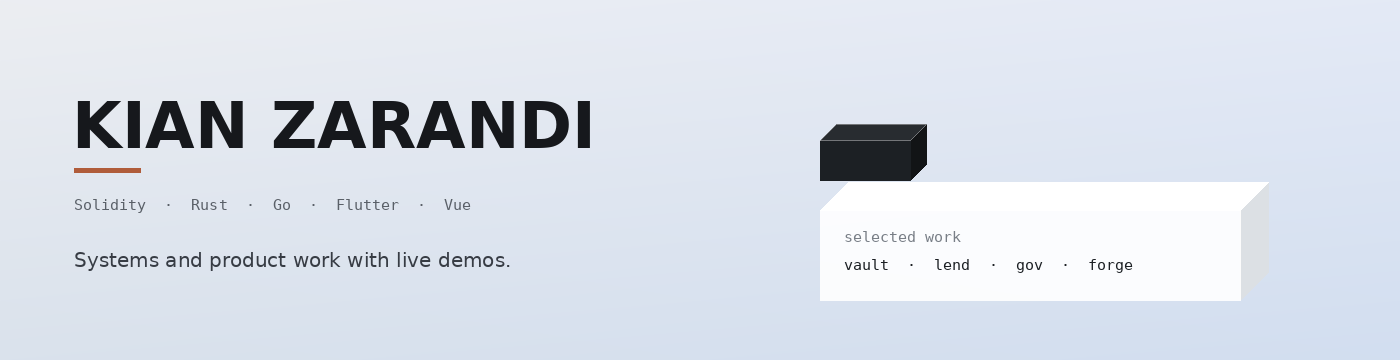
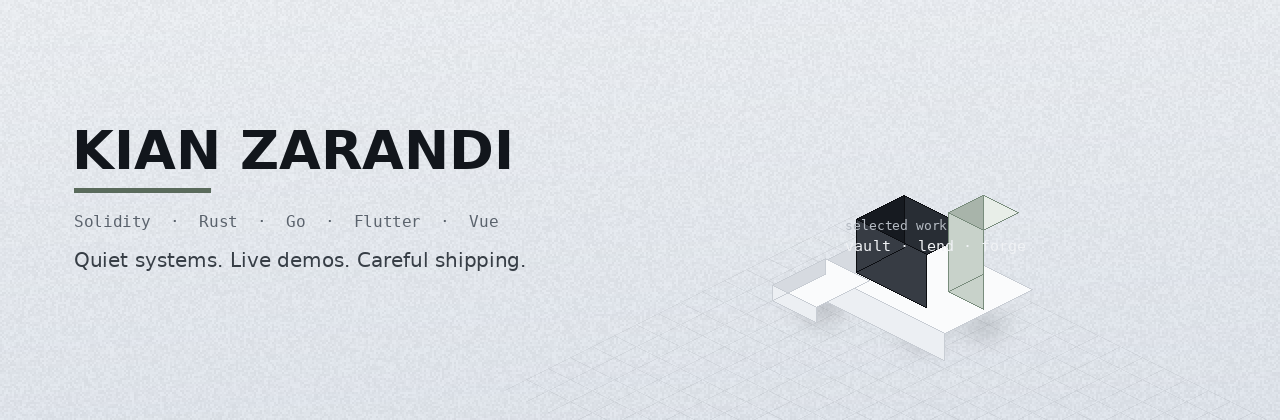
Refine profile art to architectural stone 3D
Replace terracotta neon cues with sage/ink isometric volumes,
quiet Stats pedestals, and a calmer portfolio accent.

diff --git a/index.html b/index.html
@@ -17,9 +17,9 @@
       --ink-soft: #3a4a56;
       --muted: #5c6d7a;
       --line: rgba(15, 26, 34, 0.12);
-      --accent: #c45c26;
-      --accent-deep: #9a3f14;
-      --glow: rgba(196, 92, 38, 0.18);
+      --accent: #5a6b5c;
+      --accent-deep: #3f4f42;
+      --glow: rgba(90, 107, 92, 0.18);
       --slag: #1f6f8b;
       --mono: "JetBrains Mono", ui-monospace, monospace;
       --display: "Syne", "Vazirmatn", system-ui, sans-serif;
@@ -33,9 +33,9 @@
       font-family: var(--body);
       color: var(--ink);
       background:
-        radial-gradient(1200px 600px at 10% -10%, rgba(196, 92, 38, 0.16), transparent 55%),
+        radial-gradient(1200px 600px at 10% -10%, rgba(90, 107, 92, 0.16), transparent 55%),
         radial-gradient(900px 500px at 95% 5%, rgba(31, 111, 139, 0.18), transparent 50%),
-        radial-gradient(700px 380px at 50% 110%, rgba(196, 92, 38, 0.08), transparent 55%),
+        radial-gradient(700px 380px at 50% 110%, rgba(90, 107, 92, 0.08), transparent 55%),
         linear-gradient(165deg, var(--bg-0), var(--bg-1) 55%, #cfd9e2);
       min-height: 100vh;
       line-height: 1.65;

diff --git a/README.md b/README.md
@@ -44,9 +44,9 @@ Iran · freelance & product · [zyrax.ir](https://www.zyrax.ir)
 ## Solidity
 
 <div align="center">
-  <a href="https://github.com/kianPk/vaultforge"><img src="https://github-readme-stats.vercel.app/api/pin/?username=kianPk&repo=vaultforge&theme=transparent&hide_border=true&title_color=162028&icon_color=B05C3A&text_color=3A444E" height="120" alt="vaultforge" /></a>
-  <a href="https://github.com/kianPk/lendgrid"><img src="https://github-readme-stats.vercel.app/api/pin/?username=kianPk&repo=lendgrid&theme=transparent&hide_border=true&title_color=162028&icon_color=B05C3A&text_color=3A444E" height="120" alt="lendgrid" /></a>
-  <a href="https://github.com/kianPk/govstack"><img src="https://github-readme-stats.vercel.app/api/pin/?username=kianPk&repo=govstack&theme=transparent&hide_border=true&title_color=162028&icon_color=B05C3A&text_color=3A444E" height="120" alt="govstack" /></a>
+  <a href="https://github.com/kianPk/vaultforge"><img src="https://github-readme-stats.vercel.app/api/pin/?username=kianPk&repo=vaultforge&theme=transparent&hide_border=true&title_color=162028&icon_color=5A6B5C&text_color=3A444E" height="120" alt="vaultforge" /></a>
+  <a href="https://github.com/kianPk/lendgrid"><img src="https://github-readme-stats.vercel.app/api/pin/?username=kianPk&repo=lendgrid&theme=transparent&hide_border=true&title_color=162028&icon_color=5A6B5C&text_color=3A444E" height="120" alt="lendgrid" /></a>
+  <a href="https://github.com/kianPk/govstack"><img src="https://github-readme-stats.vercel.app/api/pin/?username=kianPk&repo=govstack&theme=transparent&hide_border=true&title_color=162028&icon_color=5A6B5C&text_color=3A444E" height="120" alt="govstack" /></a>
 </div>
 
 | Project | Focus | Demo |
@@ -64,8 +64,8 @@ git clone https://github.com/kianPk/vaultforge && cd vaultforge && make install 
 ## Rust · Go · Flutter
 
 <div align="center">
-  <a href="https://github.com/kianPk/loadforge"><img src="https://github-readme-stats.vercel.app/api/pin/?username=kianPk&repo=loadforge&theme=transparent&hide_border=true&title_color=162028&icon_color=B05C3A&text_color=3A444E" height="120" alt="loadforge" /></a>
-  <a href="https://github.com/kianPk/gateproxy"><img src="https://github-readme-stats.vercel.app/api/pin/?username=kianPk&repo=gateproxy&theme=transparent&hide_border=true&title_color=162028&icon_color=B05C3A&text_color=3A444E" height="120" alt="gateproxy" /></a>
+  <a href="https://github.com/kianPk/loadforge"><img src="https://github-readme-stats.vercel.app/api/pin/?username=kianPk&repo=loadforge&theme=transparent&hide_border=true&title_color=162028&icon_color=5A6B5C&text_color=3A444E" height="120" alt="loadforge" /></a>
+  <a href="https://github.com/kianPk/gateproxy"><img src="https://github-readme-stats.vercel.app/api/pin/?username=kianPk&repo=gateproxy&theme=transparent&hide_border=true&title_color=162028&icon_color=5A6B5C&text_color=3A444E" height="120" alt="gateproxy" /></a>
 </div>
 
 | Project | Stack | Demo |
@@ -100,21 +100,21 @@ git clone https://github.com/kianPk/vaultforge && cd vaultforge && make install 
 
 <br/>
 
-<img height="158" src="https://github-readme-stats.vercel.app/api?username=kianPk&show_icons=true&theme=default&hide_border=true&bg_color=00000000&title_color=162028&icon_color=B05C3A&text_color=3A444E&rank_icon=github" alt="GitHub stats" />
+<img height="158" src="https://github-readme-stats.vercel.app/api?username=kianPk&show_icons=true&theme=default&hide_border=true&bg_color=00000000&title_color=162028&icon_color=5A6B5C&text_color=3A444E&rank_icon=github" alt="GitHub stats" />
 <img height="158" src="https://github-readme-stats.vercel.app/api/top-langs/?username=kianPk&layout=compact&theme=default&hide_border=true&bg_color=00000000&title_color=162028&text_color=3A444E&langs_count=8&hide=HTML,CSS" alt="Top languages" />
 
 <br/>
 
-<img height="150" src="https://streak-stats.demolab.com/?user=kianPk&theme=default&hide_border=true&background=FFFFFF00&ring=B05C3A&fire=B05C3A&currStreakLabel=162028&sideLabels=6A7280&dates=9AA3AD" alt="Streak" />
+<img height="150" src="https://streak-stats.demolab.com/?user=kianPk&theme=default&hide_border=true&background=FFFFFF00&ring=5A6B5C&fire=5A6B5C&currStreakLabel=162028&sideLabels=6A7280&dates=9AA3AD" alt="Streak" />
 
 <br/><br/>
 
-<img src="https://ghchart.rshah.org/b05c3a/kianPk" alt="Contributions" width="90%" />
+<img src="https://ghchart.rshah.org/5a6b5c/kianPk" alt="Contributions" width="90%" />
 
 <br/><br/>
 
-<a href="https://github.com/kianPk/vaultforge"><img src="https://github-readme-stats.vercel.app/api/pin/?username=kianPk&repo=vaultforge&theme=transparent&hide_border=true&title_color=162028&icon_color=B05C3A&text_color=3A444E" alt="vaultforge" /></a>
-<a href="https://github.com/kianPk/loadforge"><img src="https://github-readme-stats.vercel.app/api/pin/?username=kianPk&repo=loadforge&theme=transparent&hide_border=true&title_color=162028&icon_color=B05C3A&text_color=3A444E" alt="loadforge" /></a>
+<a href="https://github.com/kianPk/vaultforge"><img src="https://github-readme-stats.vercel.app/api/pin/?username=kianPk&repo=vaultforge&theme=transparent&hide_border=true&title_color=162028&icon_color=5A6B5C&text_color=3A444E" alt="vaultforge" /></a>
+<a href="https://github.com/kianPk/loadforge"><img src="https://github-readme-stats.vercel.app/api/pin/?username=kianPk&repo=loadforge&theme=transparent&hide_border=true&title_color=162028&icon_color=5A6B5C&text_color=3A444E" alt="loadforge" /></a>
 
 </div>
 
